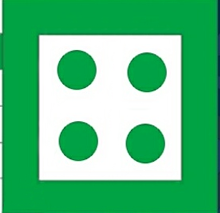
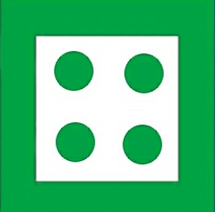
Added Center Board and Started working on drawing game blocks.

diff --git a/src/main.py b/src/main.py
@@ -16,6 +16,7 @@ yellow_board = pygame.image.load('../assets/yellow_board.png').convert_alpha()
 green_board = pygame.image.load('../assets/green_board.png').convert_alpha()
 blue_board = pygame.image.load('../assets/blue_board.png').convert_alpha()
 center_board = pygame.image.load('../assets/center_board.png').convert_alpha()
+block = pygame.image.load('../assets/game_block.png').convert_alpha()
 
 # creating board
 board = pygame.sprite.Group()

diff --git a/src/block.py b/src/block.py
@@ -1,0 +1,7 @@
+import pygame
+
+class Block(pygame.sprite.Sprite):
+    def __init__(self,image,block_width,block_height):
+        super().__init__()
+        self.image = image
+        self.image = self.image.get_rect(topleft=(block_width,block_height))

diff --git a/src/utils.py b/src/utils.py
@@ -1,0 +1,2 @@
+def create_board(width, height, block_image, block_image_special):
+    pass
